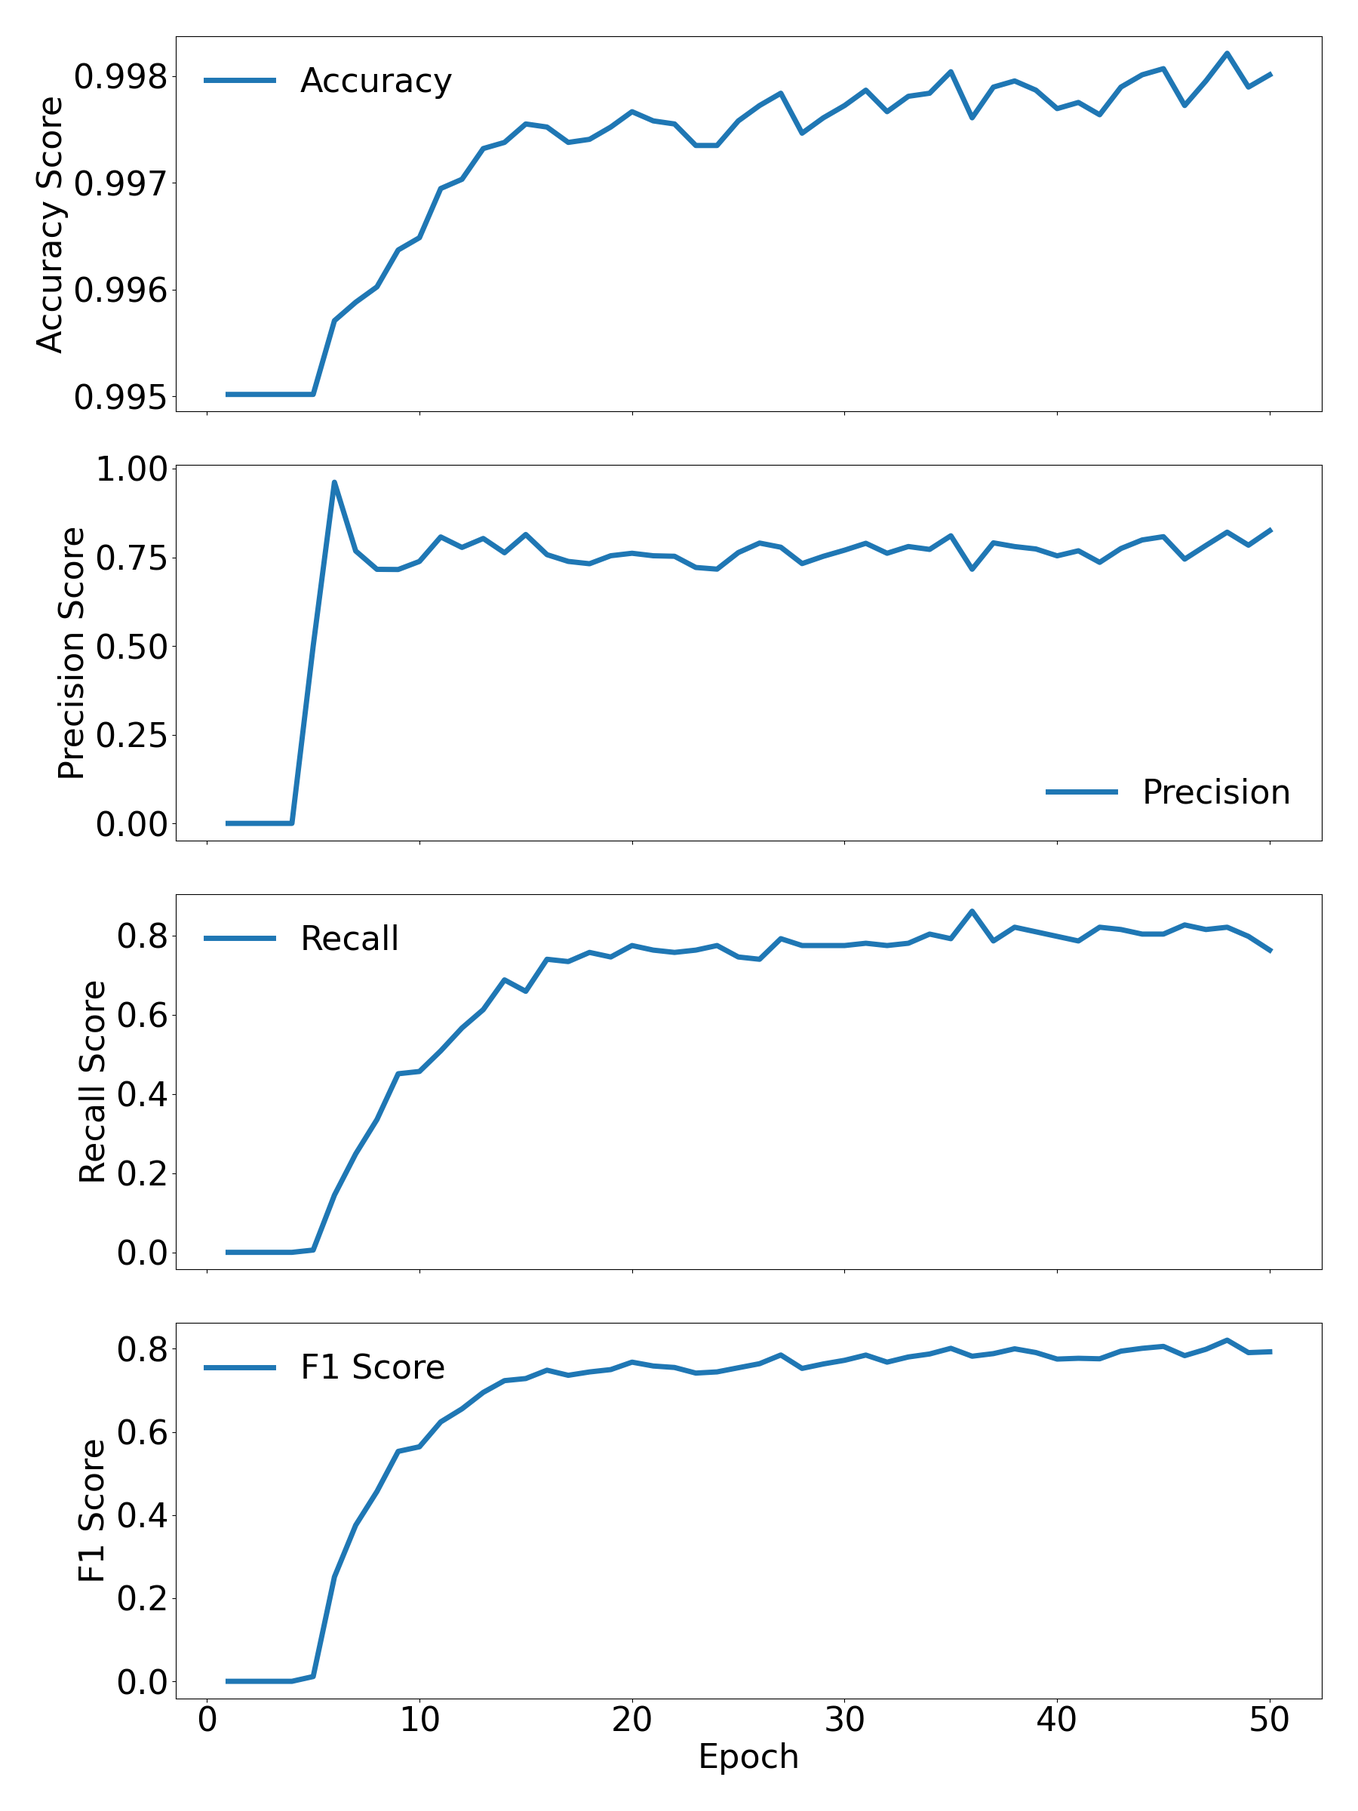
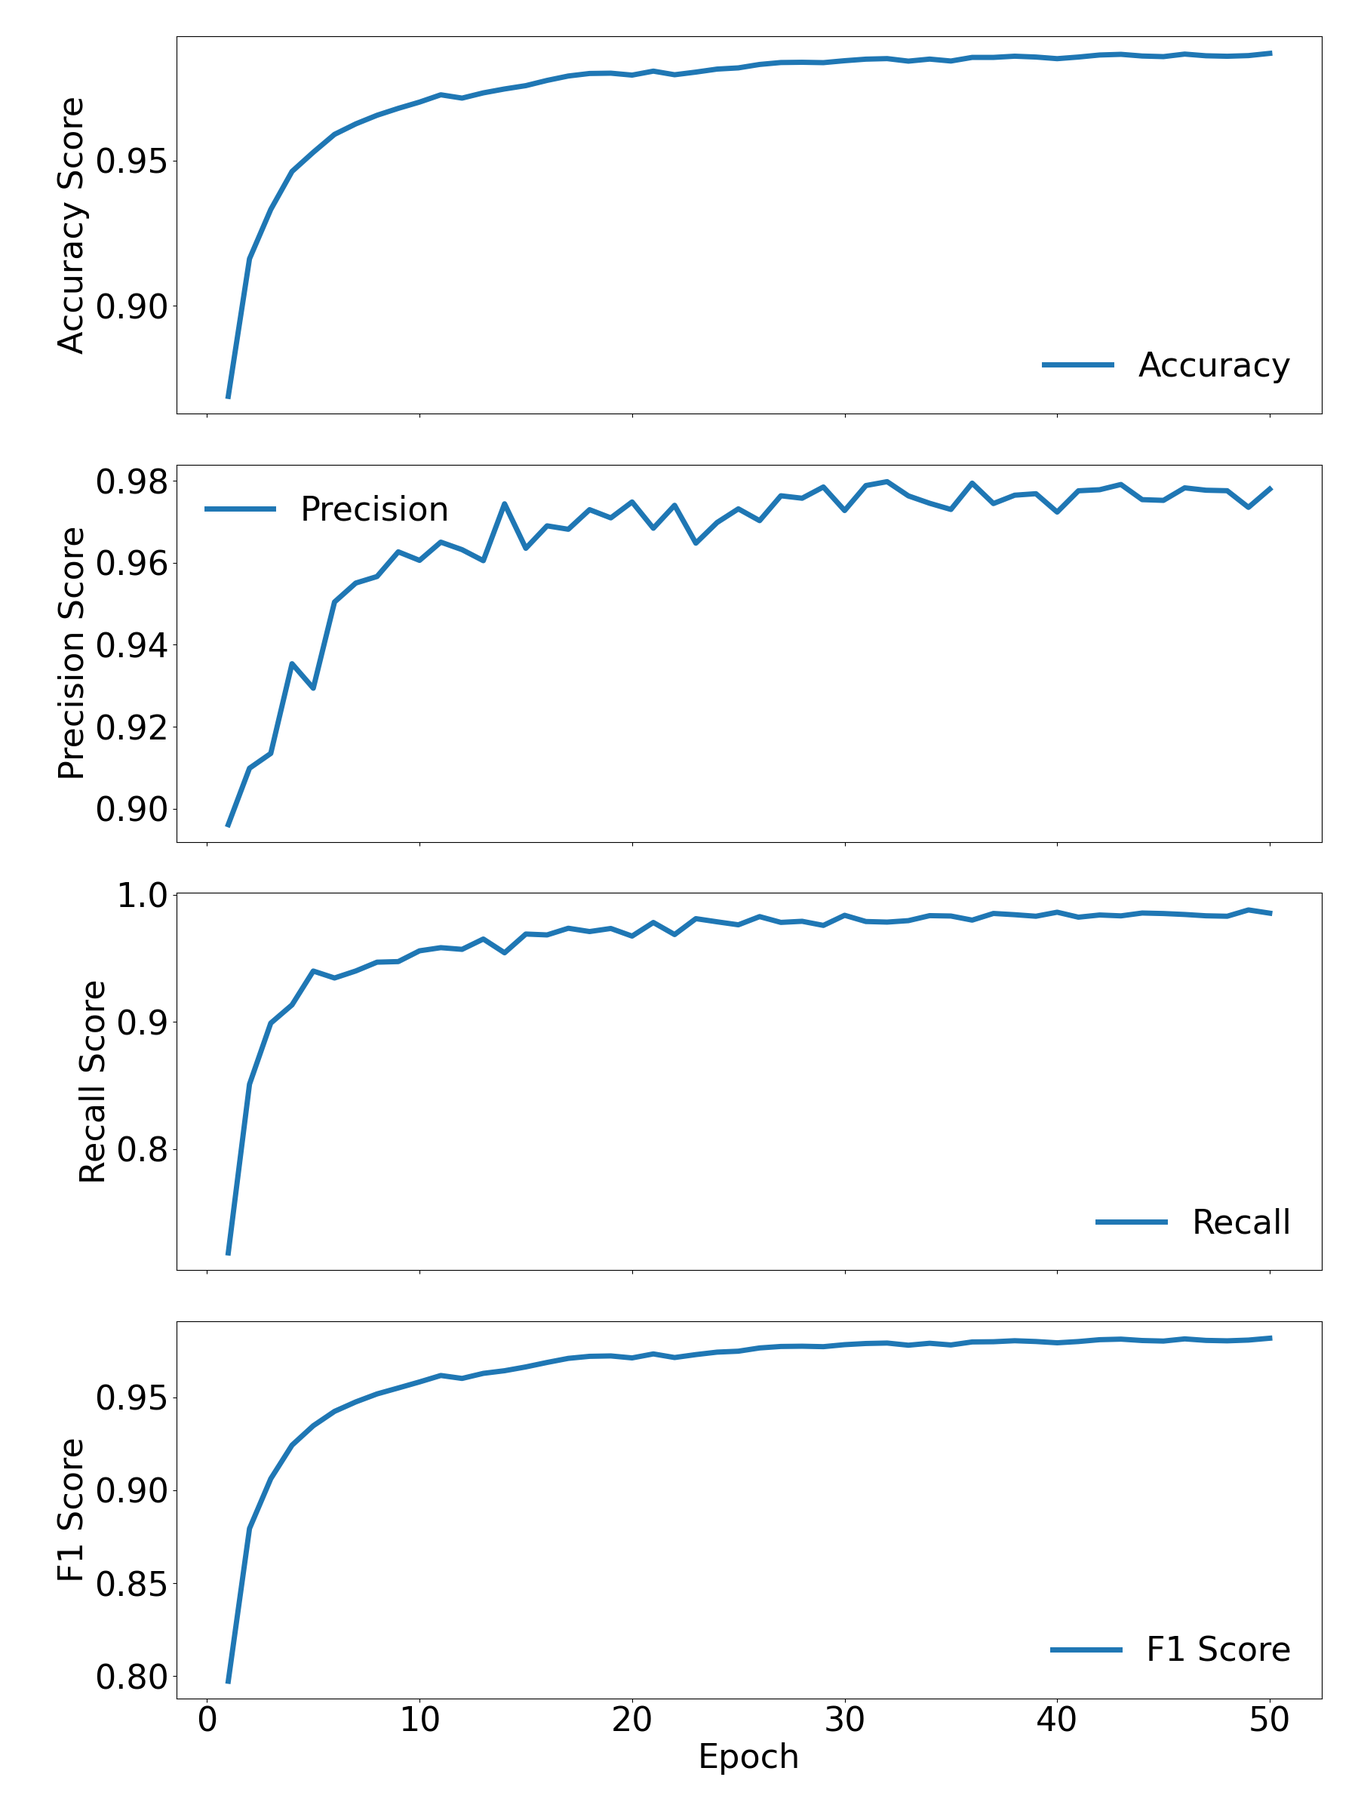
fixed MobiAct dataset

diff --git a/src/plotter.py b/src/plotter.py
@@ -3,10 +3,10 @@ import matplotlib
 import matplotlib.pyplot as plt
 
 
-def plot_classification_training_result(file_path):
+def plot_classification_training_result(classification_file_path):
     base_path = "/home/s7wu7/project/federated_fall_detection/result/classification"
         # Load JSON data from a file
-    with open(f"{base_path}/{file_path}", 'r') as file:
+    with open(f"{base_path}/{classification_file_path}", 'r') as file:
         data = json.load(file)
         
     # Extract data
@@ -44,7 +44,7 @@ def plot_classification_training_result(file_path):
     plt.ylabel('Loss')
     plt.legend()
     plt.grid(True)
-    plt.savefig(f"{base_path}/{file_path[:-13]}_loss.png")
+    plt.savefig(f"{base_path}/{classification_file_path[:-13]}_loss.png")
 
     # Plotting Train and Test Accuracy
     plt.figure(figsize=(12, 6))
@@ -55,7 +55,7 @@ def plot_classification_training_result(file_path):
     plt.ylabel('Accuracy')
     plt.legend()
     plt.grid(True)
-    plt.savefig(f"{base_path}/{file_path[:-13]}_accuracy.png")
+    plt.savefig(f"{base_path}/{classification_file_path[:-13]}_accuracy.png")
 
     # Plotting Precision, Recall, and F1 Score
     plt.figure(figsize=(12, 6))
@@ -67,13 +67,13 @@ def plot_classification_training_result(file_path):
     plt.ylabel('Score')
     plt.legend()
     plt.grid(True)
-    plt.savefig(f"{base_path}/{file_path[:-13]}_metrics.png")
+    plt.savefig(f"{base_path}/{classification_file_path[:-13]}_metrics.png")
 
     
-def plot_reconstruction_training_result(file_path):
+def plot_reconstruction_training_result(autoencoder_file_path):
     base_path = "/home/s7wu7/project/federated_fall_detection/result/centeralized"
     # Load JSON data from a file
-    with open(f"{base_path}/{file_path}", 'r') as file:
+    with open(f"{base_path}/{autoencoder_file_path}", 'r') as file:
         data = json.load(file)
 
     # Extract data
@@ -94,19 +94,19 @@ def plot_reconstruction_training_result(file_path):
 
     # Display the plot
     plt.grid(True)
-    plt.savefig(f"{base_path}/{file_path[:-5]}.png")
+    plt.savefig(f"{base_path}/{autoencoder_file_path[:-5]}.png")
         
         
-def plot_test_metrics(federated_file_path, centeralazied_file_path):
+def plot_test_metrics(federated_classification_file_path, centeralazied_classification_file_path):
     # Plotting Precision, Recall, and F1 Score
-    fig = plt.figure(figsize=(18, 24))
+    base_path = "/home/s7wu7/project/federated_fall_detection/result/classification"
     
+    fig = plt.figure(figsize=(18, 24))
     plots = fig.subplots(4, 1, sharex=True)
 
-    if federated_file_path is not None:
-        base_path = "/home/s7wu7/project/federated_fall_detection/result/classification"
+    if federated_classification_file_path is not None:
         # Load JSON data from a file
-        with open(f"{base_path}/{federated_file_path}", 'r') as file:
+        with open(f"{base_path}/{federated_classification_file_path}", 'r') as file:
             data = json.load(file)
             
         # Extract data
@@ -137,9 +137,8 @@ def plot_test_metrics(federated_file_path, centeralazied_file_path):
         plots[2].plot(fl_epochs, fl_recall_list, linewidth=5, label='Federated Recall')
         plots[3].plot(fl_epochs, fl_f1_score_list, linewidth=5, label='Federated F1 Score')
 
-    if centeralazied_file_path is not None:
-        base_path = "/home/s7wu7/project/federated_fall_detection/result/classification"
-        with open(f"{base_path}/{centeralazied_file_path}", 'r') as file:
+    if centeralazied_classification_file_path is not None:
+        with open(f"{base_path}/{centeralazied_classification_file_path}", 'r') as file:
             data = json.load(file)    
 
         # Extract data
@@ -184,46 +183,55 @@ def plot_test_metrics(federated_file_path, centeralazied_file_path):
     plt.tight_layout()
     plt.savefig(f"model_metrics.png", transparent=True)
 
-def plot_test_losses():
-    file_path = "/home/s7wu7/project/federated_fall_detection/result/centeralized/SiSFall_results.json"
-    # Load JSON data from a file
-    with open(file_path, 'r') as file:
-        data = json.load(file)
-    # Extract data
-    aen_epochs = [entry["epoch"] for entry in data["centralized_evaluate"]]
-    aen_test_loss = [entry["test_loss"] for entry in data["centralized_evaluate"]]
+def plot_test_losses(classifier_file, autoencoder_file, fed_classifier_file, fed_autoencoder_file):
+    if autoencoder_file:
+        file_path = f"/home/s7wu7/project/federated_fall_detection/result/centeralized/{autoencoder_file}"
+        # Load JSON data from a file
+        with open(file_path, 'r') as file:
+            data = json.load(file)
+        # Extract data
+        aen_epochs = [entry["epoch"] for entry in data["centralized_evaluate"]]
+        aen_test_loss = [entry["test_loss"] for entry in data["centralized_evaluate"]]
 
-    file_path = "/home/s7wu7/project/federated_fall_detection/src/fl-fall/outputs/2024-12-03/16-03-09/results.json"
-    # Load JSON data from a file
-    with open(file_path, 'r') as file:
-        data = json.load(file)
-    # Extract data
-    fl_aen_epochs = [entry["round"] for entry in data["federated_evaluate"]]
-    fl_aen_test_loss = [entry["federated_evaluate_loss"] for entry in data["federated_evaluate"]]
+    if fed_autoencoder_file:
+        file_path = f"/home/s7wu7/project/federated_fall_detection/src/fl-fall/{fed_autoencoder_file}"
+        # outputs/2024-12-03/16-03-09/results.json
+        # Load JSON data from a file
+        with open(file_path, 'r') as file:
+            data = json.load(file)
+        # Extract data
+        fl_aen_epochs = [entry["round"] for entry in data["federated_evaluate"]]
+        fl_aen_test_loss = [entry["federated_evaluate_loss"] for entry in data["federated_evaluate"]]
 
-    file_path = "/home/s7wu7/project/federated_fall_detection/result/classification/SiSFall_results.json"
-    # Load JSON data from a file
-    with open(file_path, 'r') as file:
-        data = json.load(file)
-    # Extract data
-    cl_epochs = [entry["epoch"] for entry in data["centralized_evaluate"]]
-    cl_test_loss = [entry["test_loss"] for entry in data["centralized_evaluate"]]
-    
-    file_path = "/home/s7wu7/project/federated_fall_detection/result/classification/federated_SiSFall_results.json"
-    # Load JSON data from a file
-    with open(file_path, 'r') as file:
-        data = json.load(file)
-    # Extract data
-    fl_cl_epochs = [entry["epoch"] for entry in data["centralized_evaluate"]]
-    fl_cl_test_loss = [entry["test_loss"] for entry in data["centralized_evaluate"]]
+    if classifier_file:
+        file_path = f"/home/s7wu7/project/federated_fall_detection/result/classification/{classifier_file}"
+        # Load JSON data from a file
+        with open(file_path, 'r') as file:
+            data = json.load(file)
+        # Extract data
+        cl_epochs = [entry["epoch"] for entry in data["centralized_evaluate"]]
+        cl_test_loss = [entry["test_loss"] for entry in data["centralized_evaluate"]]
+        
+    if fed_classifier_file:
+        file_path = f"/home/s7wu7/project/federated_fall_detection/result/classification/{fed_classifier_file}"
+        # Load JSON data from a file
+        with open(file_path, 'r') as file:
+            data = json.load(file)
+        # Extract data
+        fl_cl_epochs = [entry["epoch"] for entry in data["centralized_evaluate"]]
+        fl_cl_test_loss = [entry["test_loss"] for entry in data["centralized_evaluate"]]
         
     # Plotting
     fig = plt.figure(figsize=(16, 12))
     plots = fig.subplots(2, 1, sharex=True)
-    plots[0].plot(aen_epochs, aen_test_loss,linewidth=5, label='Centeralized Autoencoder Test Loss')
-    plots[0].plot(fl_aen_epochs, fl_aen_test_loss,linewidth=5, label='Federated Autoencoder Test Loss')
-    plots[1].plot(cl_epochs, cl_test_loss,linewidth=5, label='Centeralized Classification Test Loss')
-    plots[1].plot(fl_cl_epochs, fl_cl_test_loss,linewidth=5, label='Federated Classification Test Loss')
+    if autoencoder_file:
+        plots[0].plot(aen_epochs, aen_test_loss,linewidth=5, label='Centeralized Autoencoder Test Loss')
+    if fed_autoencoder_file:
+        plots[0].plot(fl_aen_epochs, fl_aen_test_loss,linewidth=5, label='Federated Autoencoder Test Loss')
+    if classifier_file:
+        plots[1].plot(cl_epochs, cl_test_loss,linewidth=5, label='Centeralized Classification Test Loss')
+    if fed_classifier_file:
+        plots[1].plot(fl_cl_epochs, fl_cl_test_loss,linewidth=5, label='Federated Classification Test Loss')
     
     # Adding title and labels
     # plots[0].set_title('Autoencoder and Classifier Test Loss Over Epochs')
@@ -244,14 +252,16 @@ def main():
     files = [
         # "UpFall_results.json",
         # "federated_SiSFall_results.json",
-        ("centeralized_MobiAct_results.json", None)
+        ("centeralized_MobiAct_results.json", "MobiAct_results.json", None, None)
     ]
     for temp_file in files:
-        cen_file, fed_file = temp_file
-        # plot_test_losses()
-        plot_test_metrics(centeralazied_file_path=cen_file, federated_file_path=fed_file)
-        plot_reconstruction_training_result(cen_file)
-        plot_classification_training_result(cen_file)
+        classifier_file, autoencoder_file, fed_classifier_file, fed_autoencoder_file = temp_file
+        plot_classification_training_result(classifier_file)
+        plot_reconstruction_training_result(autoencoder_file)
+        plot_test_metrics(fed_classifier_file, classifier_file)
+        plot_test_losses(classifier_file, autoencoder_file, fed_classifier_file, fed_autoencoder_file)
+        
+        
     
 if __name__ == '__main__':
     main()

diff --git a/src/fl-fall/fl_fall/dataset.py b/src/fl-fall/fl_fall/dataset.py
@@ -397,21 +397,58 @@ def load_data(dataset_name="UpFall", frequancy="50ms", window_size=40, window_st
         raw_datasets, raw_label, raw_files, frequancy
     )
 
+    if dataset_name == "MobiAct":
+        clean_windows = []
+        clean_labels = []
+        clean_classes = []
+        clean_users = []
+        for temp_class in np.unique(class_datasets):
+            temp_class_windows = []
+            for temp_col in range(6):
+                temp_dataset = windows_datasets[class_datasets == temp_class][:, :, temp_col]
+                flat_temp_dataset = np.reshape(temp_dataset, -1)
+                q75, q25 = np.percentile(flat_temp_dataset, [75, 25])
+                iqr = q75 - q25
+                outliers = (flat_temp_dataset < q25 - (1.2 * iqr)) | (flat_temp_dataset > q75 + (1.2 * iqr))
+                outliers = np.reshape(outliers, temp_dataset.shape)
+                temp_class_windows.append(outliers.any(axis=1))
+            not_outlier = (np.stack(temp_class_windows).sum(axis=0) < 4)
+            temp_clean_windows = windows_datasets[class_datasets == temp_class][not_outlier]
+            temp_clean_users = final_users[class_datasets == temp_class][not_outlier]
+            clean_windows.append(temp_clean_windows)
+            clean_users.append(temp_clean_users)
+            clean_labels.append(np.full(temp_clean_windows.shape[0], labels_datasets[class_datasets == temp_class][0]))
+            clean_classes.append(np.full(temp_clean_windows.shape[0], temp_class))
+        windows_datasets = np.concatenate(clean_windows)
+        final_users = np.concatenate(clean_users)
+        labels_datasets = np.concatenate(clean_labels)
+        class_datasets = np.concatenate(clean_classes)
+
     if balance:
-        sample_count_each_class = 250
+        sample_count_each_class = 100
         balanced_windows_dataset = []
         balanced_label_dataset = []
         balanced_final_users = []
         for temp_user in np.unique(final_users):
             unique_labels, counts = np.unique(class_datasets[final_users == temp_user], return_counts=True)        
             for unique_label, count in zip(unique_labels, counts):
+                is_fall = labels_datasets[class_datasets == unique_label][0] == 1
+                
                 unique_windows = windows_datasets[((final_users == temp_user) & (class_datasets == unique_label))]
-                unique_index = np.random.choice(
-                    unique_windows.shape[0], min(sample_count_each_class, count), replace=True
-                )
+                if is_fall:
+                    unique_index = np.random.choice(
+                        unique_windows.shape[0], sample_count_each_class, replace=True
+                    )
+                else:
+                    unique_index = np.random.choice(
+                        unique_windows.shape[0], min(sample_count_each_class, count), replace=True
+                    )
                 balanced_windows_dataset.append(unique_windows[unique_index])
                 balanced_label_dataset.append(labels_datasets[class_datasets == unique_label][unique_index])
-                balanced_final_users.append(np.full(min(sample_count_each_class, count), temp_user))
+                if is_fall:
+                    balanced_final_users.append(np.full(sample_count_each_class, temp_user))
+                else:
+                    balanced_final_users.append(np.full(min(sample_count_each_class, count), temp_user))
 
         windows_datasets = np.concatenate(balanced_windows_dataset)
         labels_datasets = np.concatenate(balanced_label_dataset)

diff --git a/src/result.py b/src/result.py
@@ -1,0 +1,44 @@
+import numpy as np
+from sklearn.metrics import precision_recall_fscore_support, accuracy_score
+
+
+temp = [[ 263,    0,    5,    5,    2,   11,    2,    8,    0,    0,   57,   30,    4,    0,     6,   16],
+        [  55, 4182,    0,    0,    0,    0,    0,    0,    1,    0,    0,    0,   14,    0,     0,    0],
+        [ 530,    3, 3095,   11,    5,  262,   91,    0,    0,    0,    0,   19,    0,    0,     0,    0],
+        [  71,    0,   42, 3798,   99,    5,   40,    0,    0,    0,    0,    0,    0,    0,     0,    1],
+        [  26,    1,    0,  107, 3280,    0,   55,    0,    0,    0,    0,    0,    0,    0,     0,    0],
+        [ 600,   18,  395,   18,    2, 2283,   65,    0,    0,    0,    7,   29,    0,    0,     0,    0],
+        [ 658,   12,  176,   29,   43,   75, 1559,    0,    0,    0,    0,    5,    0,    0,     0,    1],
+        [ 233,    0,    0,    0,    0,    0,    0,  296,    6,    0,   49,    8,   14,    0,     0,    1],
+        [ 156,   11,    0,    0,    0,    0,    0,    0,  206,    0,    0,    0,  822,    0,     0,    0],
+        [  54,    0,    2,    0,    0,    2,    0,    0,    0,    1,    3,   76,    0,    0,     2,    0],
+        [ 589,   11,   11,    2,    2,   38,   34,   58,    5,    0,  492,   25,   54,    0,     3,   13],
+        [ 505,   55,   44,    4,    0,   48,   13,    2,    3,    4,   25,  854,   38,    0,     1,    3],
+        [ 153,   16,    0,    0,    0,    0,    0,    0,  167,    0,    0,    3, 4078,    0,     0,    0],
+        [ 119,    1,    0,    1,    5,    4,    2,    3,    2,    0,   17,    1,    4,    0,    14,    3],
+        [ 177,    0,    1,    0,    4,   12,   12,    7,    2,    0,   10,    5,    1,    1,    45,    5],
+        [ 321,    0,    2,    2,    6,   17,    1,    8,    0,    0,   76,   36,   16,    3,    10,   87],]
+
+temp = np.array(temp)
+
+# Generate true labels and predicted labels
+true_labels = []
+predicted_labels = []
+
+for i in range(temp.shape[0]):  # Iterate over true classes
+    for j in range(temp.shape[1]):  # Iterate over predicted classes
+        true_labels.extend([i] * temp[i, j])  # Add true class labels
+        predicted_labels.extend([j] * temp[i, j])  # Add predicted class labels
+
+true_labels = np.array(true_labels)
+predicted_labels = np.array(predicted_labels)
+
+
+# Calculate precision, recall, and F1-score
+precision, recall, f1, _ = precision_recall_fscore_support(
+    true_labels, predicted_labels, average=None
+)
+
+# Display results
+for i, (p, r, f) in enumerate(zip(precision, recall, f1)):
+    print(f"Class {i}: Precision={p:.4f}, Recall={r:.4f}, F1-score={f:.4f}")

diff --git a/src/classifier.py b/src/classifier.py
@@ -74,9 +74,9 @@ def plot_data_distribution(train_labels, train_users, dataset_name):
 
 def build_classifier(latent_size):
     input_layer = layers.Input(shape=(latent_size,))
-    dense_1 = layers.Dense(256, activation='relu')(input_layer)
+    dense_1 = layers.Dense(512, activation='relu')(input_layer)
     dropout_1 = layers.Dropout(0.3)(dense_1)
-    dense_2 = layers.Dense(64, activation='relu')(dropout_1)
+    dense_2 = layers.Dense(128, activation='relu')(dropout_1)
     dropout_2 = layers.Dropout(0.3)(dense_2)
     output_layer = layers.Dense(2)(dropout_2)
     classifier = tf.keras.Model(inputs=input_layer, outputs=output_layer)
@@ -208,7 +208,7 @@ def main():
 
     # checkpoint_path = f"{model_base_path}/UpFall_model_state_loss_0.00053_round_90.weights.h5"
     # checkpoint_path = f"{model_base_path}/SiSFall_model_state_loss_0.00013_round_50.weights.h5"
-    checkpoint_path = f"{model_base_path}/MobiAct_model_state_loss_0.00202_round_20.weights.h5"
+    checkpoint_path = f"{model_base_path}/MobiAct_model_state_loss_0.00275_round_50.weights.h5"
     # checkpoint_path = '/home/s7wu7/project/federated_fall_detection/src/fl-fall/outputs/2024-12-03/16-03-09/model_state_loss_0.00106_round_50.weights.h5'
     model = load_model(window_size)
     model.load_weights(checkpoint_path)

diff --git a/src/configs.py b/src/configs.py
@@ -1,23 +1,21 @@
 configs = {
     "MobiAct": {
-        "user_split": True,
-        "window_size": 40,
-        "window_step": 10,
         "user_split": False,
+        "window_size": 60,
+        "window_step": 20,
         "epochs": 50,
-        "two_class": True,
-        "two_class_classification": True,
-        "extract_fall": True,
-        "frequancy": "40ms",
+        "two_class": False,
+        "two_class_classification": False,
+        "extract_fall": False,
+        "frequancy": "20ms",
         "normlize": True,
-        "balance": False,
-        "balance_classification": False,
+        "balance": True,
+        "balance_classification": True,
     },
     "SiSFall": {
-        "user_split": True,
+        "user_split": False,
         "window_size": 40,
         "window_step": 10,
-        "user_split": True,
         "epochs": 50,
         "two_class": True,
         "two_class_classification": True,

diff --git a/src/centeralize.py b/src/centeralize.py
@@ -200,13 +200,15 @@ def main():
         # train_dataset = train_dataset[train_labels == 0]
         # train_labels = train_labels[train_labels == 0]
     
+    print(np.unique(train_labels, return_counts=True))
+    
     x_train, x_val = train_test_split(train_dataset, test_size=0.15, random_state=42)
     train_dataset = tf.data.Dataset.from_tensor_slices(x_train).shuffle(BUFFER_SIZE).batch(BATCH_SIZE)
     test_dataset = tf.data.Dataset.from_tensor_slices(x_val).shuffle(BUFFER_SIZE).batch(BATCH_SIZE)
     
     model = load_model(window_size)
     print(model.summary())
-    model_optimizer = tf.keras.optimizers.Adam(learning_rate=0.001)
+    model_optimizer = tf.keras.optimizers.Adam(learning_rate=0.0005)
     train(model, model_optimizer, train_dataset, test_dataset, epochs, dataset_name)
     
     

diff --git a/src/fl-fall/fl_fall/task.py b/src/fl-fall/fl_fall/task.py
@@ -19,7 +19,7 @@ os.environ["TF_CPP_MIN_LOG_LEVEL"] = "3"
 train_dataset, train_labels, unique_train_users, train_users, test_dataset = None, None, None, None, None
 
 BUFFER_SIZE = 60000
-BATCH_SIZE = 512
+BATCH_SIZE = 256
 LATENT_SIZE = 32
 LAYER_SIZE = 64
 TIME_STEPS = 40
